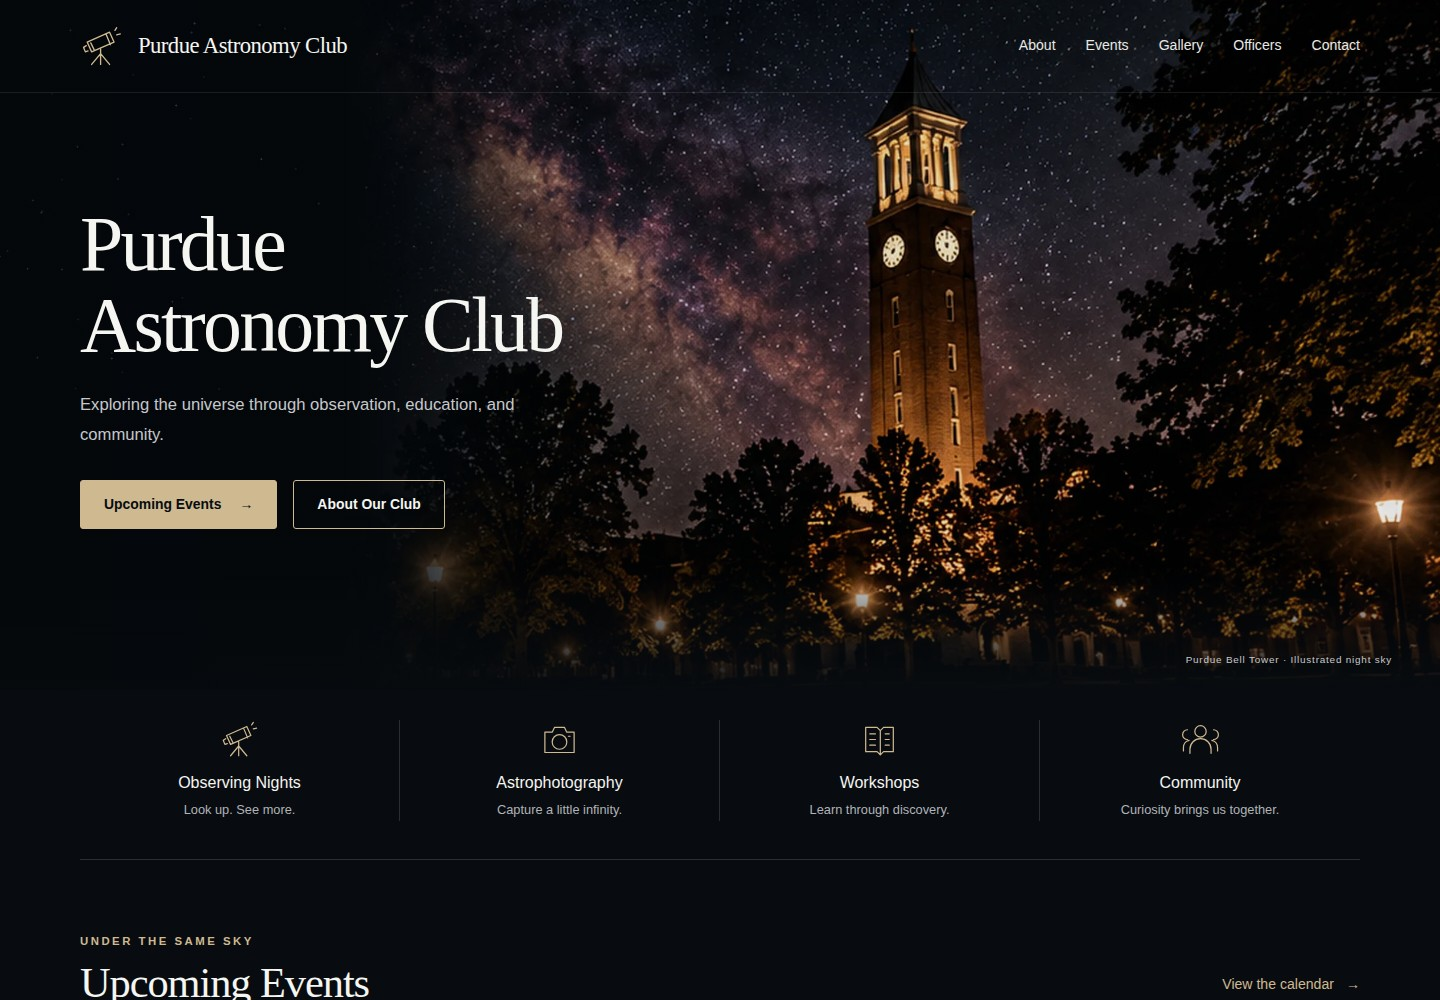
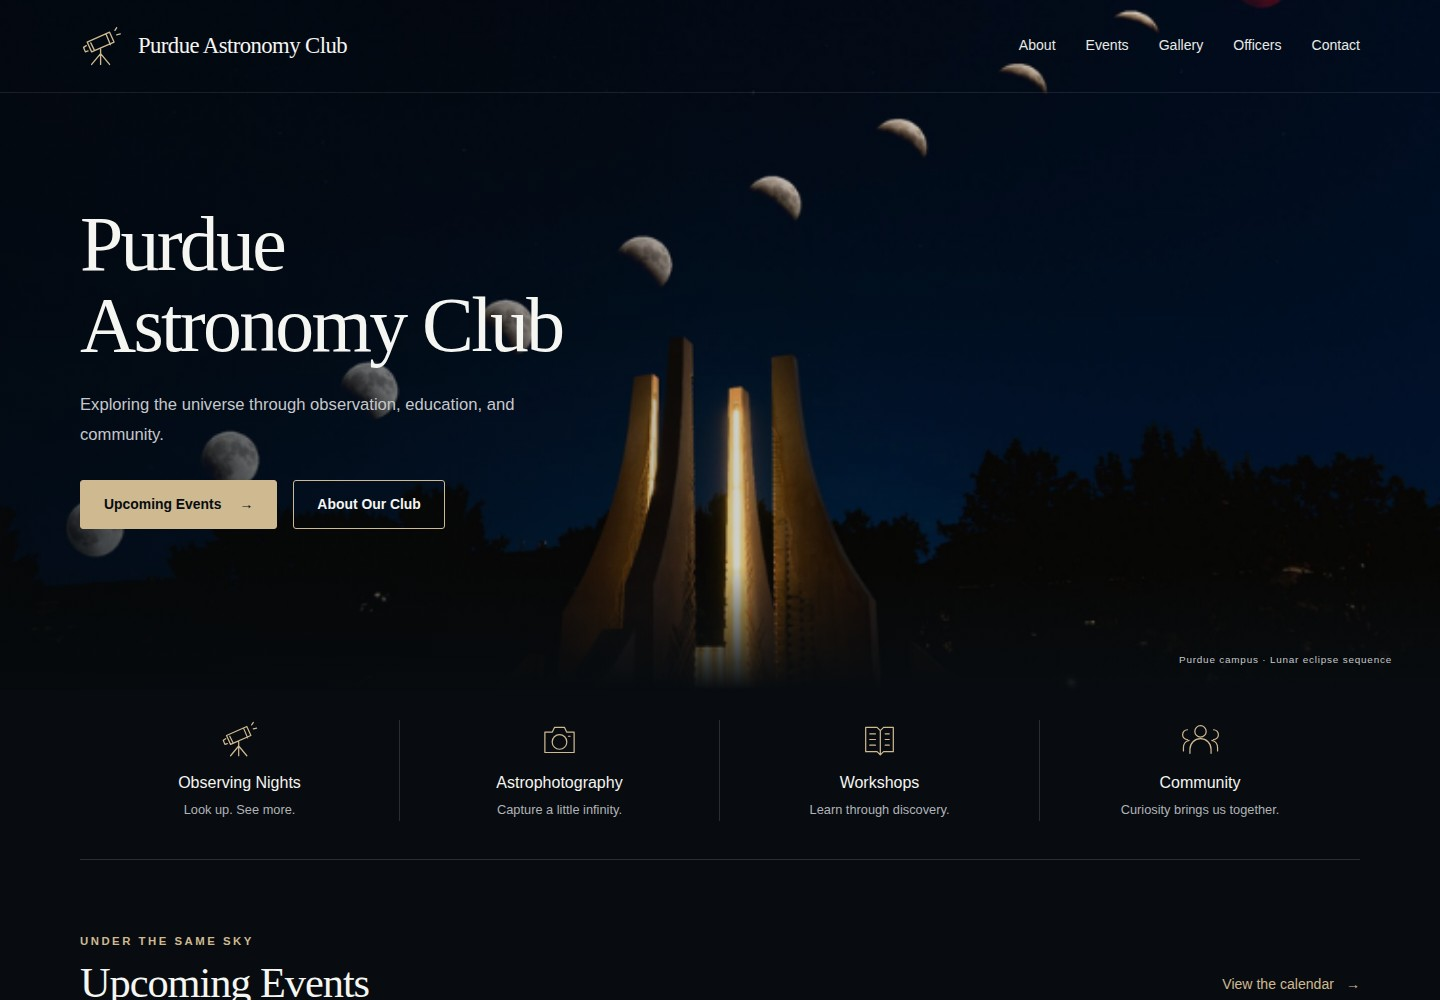
Replace illustrated background with Purdue lunar eclipse photo

diff --git a/tests/e2e/site.spec.js b/tests/e2e/site.spec.js
@@ -50,12 +50,12 @@ test('same feed drives month list, filters and labelled statuses',async({page})=
  await expect(page.locator('.fc-listMonth-view')).toContainText('Fixture location');
 });
 test('monthly banner credit and sourced notes follow selected month',async({page})=>{
- await page.route('**/months.json',r=>r.fulfill({json:[{month:'2026-10',banner_image:'/images/hero-bell-tower.webp',banner_alt:'Fixture monthly image',photographer:'Test photographer',permission_to_publish:true,night_sky_notes:'Fixture sky notes',source_url:'https://science.nasa.gov/',last_verified:'2026-10-22'}]}));
+ await page.route('**/months.json',r=>r.fulfill({json:[{month:'2026-10',banner_image:'/images/hero-lunar-eclipse.png',banner_alt:'Fixture monthly image',photographer:'Test photographer',permission_to_publish:true,night_sky_notes:'Fixture sky notes',source_url:'https://science.nasa.gov/',last_verified:'2026-10-22'}]}));
  await page.goto('/events/?month=2026-10');await page.waitForFunction(()=>window.calendarReady);
  await expect(page.locator('#banner-credit')).toHaveText('Photo: Test photographer');
  await expect(page.locator('#sky-notes')).toContainText('Fixture sky notes');
  await page.getByRole('button',{name:'Next month',exact:true}).click();
- await expect(page.locator('#banner-credit')).toHaveText('Purdue Bell Tower · Illustrated night sky');
+ await expect(page.locator('#banner-credit')).toHaveText('Purdue campus · Lunar eclipse sequence');
  await expect(page.locator('#sky-notes')).not.toContainText('Fixture sky notes');
 });
 test('local photo preparation produces a download without an upload',async({page})=>{
@@ -64,7 +64,7 @@ test('local photo preparation produces a download without an upload',async({page
  await expect(page.locator('#prepared-photos a')).toHaveAttribute('download','test-web.webp');
 });
 test('photo viewer supports keyboard close and returns focus',async({page})=>{
- await page.route('**/gallery/',async route=>{const response=await route.fetch();await route.fulfill({response,body:(await response.text()).replace('</main>','<figure><a href="/images/hero-bell-tower.webp" data-lightbox data-caption="Fixture caption" data-credit="Test photographer"><img src="/images/hero-bell-tower.webp" alt="Fixture photo"></a></figure></main>')});});
+ await page.route('**/gallery/',async route=>{const response=await route.fetch();await route.fulfill({response,body:(await response.text()).replace('</main>','<figure><a href="/images/hero-lunar-eclipse.png" data-lightbox data-caption="Fixture caption" data-credit="Test photographer"><img src="/images/hero-lunar-eclipse.png" alt="Fixture photo"></a></figure></main>')});});
  await page.goto('/gallery/');const link=page.locator('[data-lightbox]');await link.press('Enter');
  await expect(page.getByRole('dialog',{name:'Photo viewer'})).toBeVisible();
  await page.getByRole('button',{name:'Close photo ×'}).press('Escape');

diff --git a/layouts/_partials/calendar.html b/layouts/_partials/calendar.html
@@ -1,5 +1,6 @@
+{{ $fallback := resources.Get "images/hero-lunar-eclipse.png" }}
 <div class="calendar-page" data-calendar-page>
-<section class="calendar-banner"><img id="month-banner" src="{{ (resources.Get "images/hero-bell-tower.webp").RelPermalink }}" alt="Illustration of the Purdue Bell Tower beneath a star-filled sky" width="1920" height="900"><div class="calendar-banner-shade"></div><div class="container"><p class="eyebrow" id="banner-month">{{ now.Format "January 2006" }}</p><h1>Events & Observing Calendar</h1><p>Good company. Clear skies. Something to discover.</p><p id="banner-credit" class="photo-credit">Purdue Bell Tower · Illustrated night sky</p></div></section>
+<section class="calendar-banner"><img id="month-banner" src="{{ $fallback.RelPermalink }}" alt="Sequence of lunar eclipse phases above an illuminated sculpture on Purdue’s campus." width="{{ $fallback.Width }}" height="{{ $fallback.Height }}"><div class="calendar-banner-shade"></div><div class="container"><p class="eyebrow" id="banner-month">{{ now.Format "January 2006" }}</p><h1>Events & Observing Calendar</h1><p>Good company. Clear skies. Something to discover.</p><p id="banner-credit" class="photo-credit">Purdue campus · Lunar eclipse sequence</p></div></section>
 <div class="container calendar-content"><div class="calendar-toolbar" id="calendar-controls" hidden><div class="month-navigation"><button type="button" id="previous-month" aria-label="Previous month">‹</button><h2 id="month-title" aria-live="polite"></h2><button type="button" id="next-month" aria-label="Next month">›</button><button type="button" id="today-month">Today</button></div><div class="view-controls"><button type="button" data-view="dayGridMonth" aria-pressed="true">Month</button><button type="button" data-view="listMonth" aria-pressed="false">Agenda</button></div></div>
 <div class="calendar-topline"><fieldset class="calendar-filters" id="calendar-filters" hidden><legend class="sr-only">Show calendar categories</legend><label class="type-pac"><input type="checkbox" value="pac" checked> PAC events</label><label class="type-joint"><input type="checkbox" value="joint" checked> Joint events</label><label class="type-astronomy"><input type="checkbox" value="astronomy" checked> Astronomy</label></fieldset><a class="text-link subscribe-link" href="{{ relURL "calendar.ics" }}">Subscribe / download calendar <span aria-hidden="true">↗</span></a></div>
 <div class="calendar-layout" id="enhanced-calendar" hidden><aside class="calendar-sidebar"><section><p class="eyebrow">The month ahead</p><h2 id="glance-title">At a Glance</h2><div id="month-overview" aria-live="polite"></div></section><section><p class="eyebrow">Beyond campus</p><h2>This Month’s Night Sky</h2><div id="sky-notes"></div></section></aside><div id="calendar" aria-label="Events calendar"></div></div>

diff --git a/assets/js/calendar.js b/assets/js/calendar.js
@@ -16,6 +16,8 @@
     const isPoster = document.body.classList.contains('poster');
     let explicitView = false;
     const fallbackImage = document.querySelector('#month-banner').getAttribute('src');
+    const fallbackAlt = document.querySelector('#month-banner').alt;
+    const fallbackCredit = document.querySelector('#banner-credit').textContent;
     const enabled = new Set(['pac','joint','astronomy']);
     const icons = new Set(['new-moon','first-quarter','full-moon','last-quarter','meteor','mars','jupiter','saturn','uranus','neptune','planet','sun','eclipse','star']);
     const iconNode = r => {
@@ -68,8 +70,8 @@
         const month=months.find(m=>m.month===key);
         const banner=document.querySelector('#month-banner');
         banner.src=month?.banner_image || fallbackImage;
-        banner.alt=month?.banner_alt || 'Illustration of the Purdue Bell Tower beneath a star-filled sky';
-        document.querySelector('#banner-credit').textContent=month?.photographer ? 'Photo: '+month.photographer : 'Purdue Bell Tower · Illustrated night sky';
+        banner.alt=month?.banner_alt || fallbackAlt;
+        document.querySelector('#banner-credit').textContent=month?.photographer ? 'Photo: '+month.photographer : fallbackCredit;
         if (month) { ['night_sky_notes','visible_planets_notes'].forEach(field=>{if(month[field]){const p=document.createElement('p');p.className='sky-editorial';p.textContent=month[field];sky.append(p);}}); if(month.source_url){const a=document.createElement('a');a.href=month.source_url;a.textContent='Sky notes source ↗';sky.append(a);const p=document.createElement('p');p.textContent='Verified '+month.last_verified;sky.append(p);} }
         status.textContent=visible.length ? visible.length+' calendar '+(visible.length===1?'entry':'entries')+' shown for '+title+'.' : 'No events announced for '+title+'.';
         document.querySelectorAll('[data-view]').forEach(button=>button.setAttribute('aria-pressed',String(button.dataset.view===info.view.type)));

diff --git a/layouts/_partials/hero.html b/layouts/_partials/hero.html
@@ -1,5 +1,5 @@
-{{ $home := hugo.Data.home }}{{ $image := (resources.Get "images/hero-bell-tower.webp").RelPermalink }}{{ with $home.hero_image }}{{ $image = . }}{{ end }}
+{{ $home := hugo.Data.home }}{{ $image := (resources.Get "images/hero-lunar-eclipse.png").RelPermalink }}{{ with $home.hero_image }}{{ $image = . }}{{ end }}
 <section class="hero" aria-labelledby="hero-title">
 {{ partial "optimized-image.html" (dict "src" $image "alt" $home.hero_image_alt "class" "hero-image" "loading" "eager" "sizes" "100vw") }}
 <div class="hero-shade"></div><div class="container hero-content">{{ with $home.eyebrow }}<p class="eyebrow">{{ . }}</p>{{ end }}<h1 id="hero-title">{{ if eq $home.headline "Purdue Astronomy Club" }}Purdue<br>Astronomy Club{{ else }}{{ $home.headline }}{{ end }}</h1><p class="hero-intro">{{ $home.introduction }}</p><div class="button-row"><a class="button" href="{{ relURL "events/" }}">{{ $home.primary_cta | default "Upcoming Events" }} <span aria-hidden="true">→</span></a><a class="button button-outline" href="{{ relURL "about/" }}">{{ $home.secondary_cta | default "About Our Club" }}</a></div></div>
-<div class="hero-note">{{ if $home.hero_image }}{{ $home.hero_credit | default "Club image" }}{{ else }}Purdue Bell Tower · Illustrated night sky{{ end }}</div></section>
+<div class="hero-note">{{ $home.hero_credit | default "Club image" }}</div></section>

diff --git a/layouts/_partials/head.html b/layouts/_partials/head.html
@@ -10,8 +10,8 @@
 <meta property="og:description" content="{{ $description }}">
 <meta property="og:type" content="website">
 <meta property="og:url" content="{{ .Permalink }}">
-{{ $hero := resources.Get "images/hero-bell-tower.webp" }}
-{{ $ogImage := $hero.Permalink }}{{ $ogAlt := "Illustration of the Purdue Bell Tower beneath a star-filled sky" }}
+{{ $hero := resources.Get "images/hero-lunar-eclipse.png" }}
+{{ $ogImage := $hero.Permalink }}{{ $ogAlt := "Sequence of lunar eclipse phases above an illuminated sculpture on Purdue’s campus." }}
 {{ if .IsHome }}{{ with hugo.Data.home.hero_image }}{{ $ogImage = (partial "site-url.html" .) | absURL }}{{ $ogAlt = hugo.Data.home.hero_image_alt }}{{ end }}{{ else }}{{ with .Params.image | default .Params.cover_image }}{{ $ogImage = (partial "site-url.html" .) | absURL }}{{ $ogAlt = $.Params.alt | default $.Params.image_alt | default $.Params.cover_alt }}{{ end }}{{ end }}
 <meta property="og:image" content="{{ $ogImage }}">
 <meta property="og:image:alt" content="{{ $ogAlt }}">

diff --git a/docs/CONTENT_STYLE_GUIDE.md b/docs/CONTENT_STYLE_GUIDE.md
@@ -8,4 +8,4 @@ Every informative image needs alt text describing what is visible. Use captions 
 
 Obtain permission before publishing photographs or personal information. Check backgrounds for sensitive details, export web copies without location metadata, and retain originals elsewhere. The photo preparation tool is an optional browser-only aid; review its output. Source uploads in GitHub are public even when a content entry is a draft.
 
-Use the supplied Bell Tower art honestly as an AI-generated illustration. A replacement club photograph should have its own accurate alt text and credit. Do not imply Purdue or a sponsor has endorsed the club unless that relationship is confirmed.
+The default background is a lunar eclipse sequence above Purdue’s campus. A replacement club photograph should have its own accurate alt text and credit. Do not imply Purdue or a sponsor has endorsed the club unless that relationship is confirmed.

diff --git a/docs/OFFICER_GUIDE.md b/docs/OFFICER_GUIDE.md
@@ -59,7 +59,7 @@ Use **Calendar Months and Banner Photos** only for month presentation:
 - Optionally write verified sky notes and add their source URL and verification date.
 - Save. There is no second schedule to type.
 
-Months without a photo use the illustrated Bell Tower fallback. Images without permission also fall back safely. The calendar’s month can be shared with a link such as `https://purdueastro.club/events/?month=2026-11`.
+Months without a photo use the default Purdue lunar eclipse photo. Images without permission also fall back safely. The calendar’s month can be shared with a link such as `https://purdueastro.club/events/?month=2026-11`.
 
 ## Publish an event photo album
 

diff --git a/content/about.md b/content/about.md
@@ -11,7 +11,3 @@ From observing nights and astrophotography to workshops and conversations, there
 ## Find your next opportunity
 
 Our [events calendar](/events/) is the place to find confirmed dates, locations, and event details. Joining information and approved club contact details will be shared on the [contact page](/contact/) when available.
-
-## A note on our artwork
-
-The homepage shows an AI-generated illustration of the Purdue Bell Tower beneath a star-filled sky. It is artistic imagery, rather than a photograph of the sky above campus. Images in our astrophotography showcase will identify their photographers.
